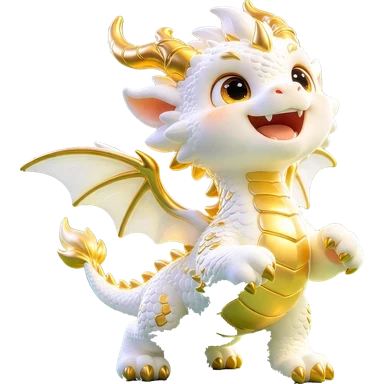
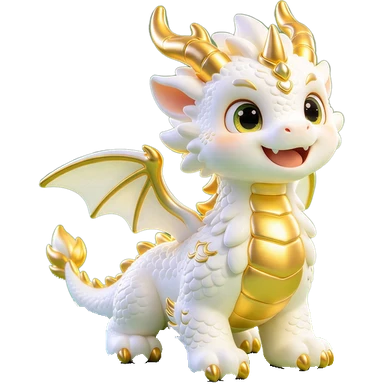
光屬性 R 龍換新圖（四隻腳齊）
Claude-Session: https://claude.ai/code/session_01E2utfFQBUZUAHLnSXfgdjb

diff --git a/public/sw.js b/public/sw.js
@@ -1,5 +1,5 @@
 // 大富翁 service worker: keeps the app shell and art so the board opens without a network.
-const CACHE = "dafuweng-v178";
+const CACHE = "dafuweng-v179";
 const SHELL = [
   "/",
   "/manifest.webmanifest",
